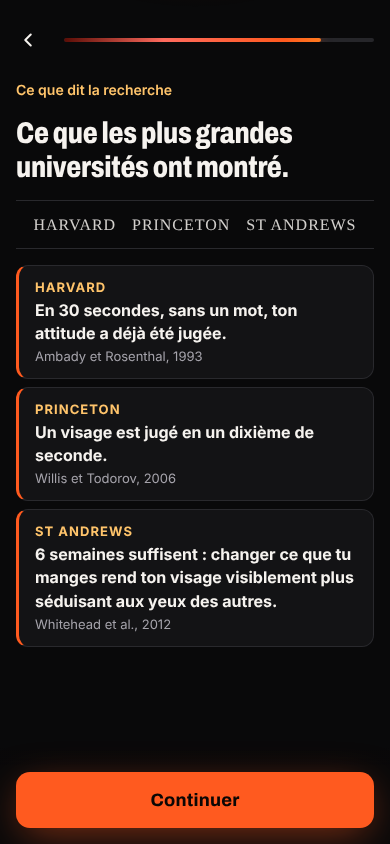
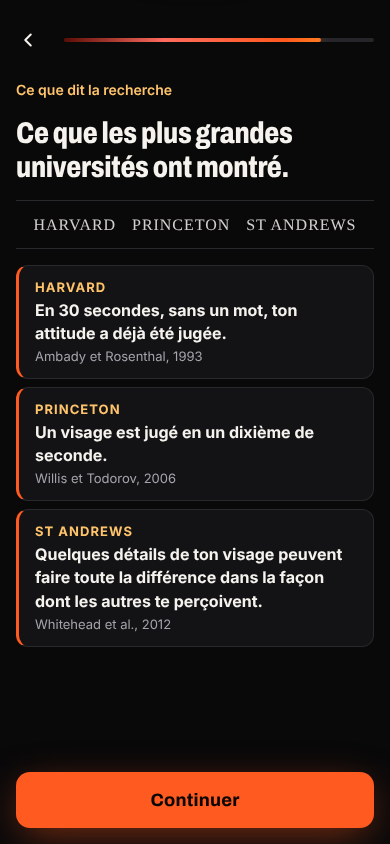
Parcours : un message suit toujours sa question, jamais deux messages d'affilée ; nouvelle phrase St Andrews
Claude-Session: https://claude.ai/code/session_014jgUVVEcSY5o2hZDxT4Svp

Changed region(s): [[0.0923, 0.6469, 0.9231, 0.7393]]

diff --git a/src/shared/questions.js b/src/shared/questions.js
@@ -16,6 +16,8 @@ export const DIFFICULTES = [
   o("progresser", "🔥", "Rien de grave, je veux juste progresser"),
 ];
 
+const OBJECTIFS = [o("assurance", "😎", "Plus d'assurance"), o("relation", "💘", "Des rencontres, une relation"), o("respect", "🏆", "Être pris au sérieux"), o("miroir", "🪞", "Me plaire dans le miroir"), o("photos", "📸", "Être bien sur les photos"), o("travail", "🎯", "Faire bonne impression au travail"), o("meilleur", "👑", "Être la meilleure version de moi")];
+
 // Phrase de l'écran S11, selon la première difficulté choisie
 export const S11_TEXT = {
   confiance: ["Ta confiance va changer de camp.", "On attaque ce qui te freine le plus. Chaque jour, une action simple, que tu vois et que tu sens."],
@@ -37,24 +39,25 @@ const _SCREENS = [
   { id: "accueil", type: "landing" },
   { id: "genre", type: "single", title: "On commence : tu es…", lead: "Ton scan et ton plan sont faits pour toi.",
     options: [o("homme", "", "Un homme"), o("femme", "", "Une femme")], avatars: true },
-  { id: "age", type: "single", title: "Quel âge as-tu ?", lead: "Ça aide à lire ta peau et à régler ton plan.",
-    options: [o("-18", "", "Moins de 18 ans"), o("18-24", "", "18 à 24 ans"), o("25-34", "", "25 à 34 ans"), o("35-44", "", "35 à 44 ans"), o("45-54", "", "45 à 54 ans"), o("55+", "", "55 ans et plus")] },
   { id: "etapes", type: "info", eyebrow: "Comment ça se passe", title: "3 étapes, 3 minutes",
     steps: [["📋", "Tes réponses", "Tes objectifs, tes habitudes, ce qui te gêne."], ["📸", "Deux selfies", "De face et de profil. Facultatif, jamais enregistrés."], ["📈", "Ta note et ton plan", "Où tu en es, jusqu'où tu peux aller, et comment."]],
     cta: "C'est parti" },
+  { id: "age", type: "single", title: "Quel âge as-tu ?", lead: "Ça aide à lire ta peau et à régler ton plan.",
+    options: [o("-18", "", "Moins de 18 ans"), o("18-24", "", "18 à 24 ans"), o("25-34", "", "25 à 34 ans"), o("35-44", "", "35 à 44 ans"), o("45-54", "", "45 à 54 ans"), o("55+", "", "55 ans et plus")] },
   { id: "scan_intro", type: "info", eyebrow: "15 critères passés au crible", title: "On va lire ton visage comme les autres le lisent.", lead: "Les gens se font un avis en quelques secondes. On te montre lequel, critère par critère, et surtout ce qui se travaille.", cta: "Continuer" },
   // l'accord pour l'analyse du visage est donné sur l'écran des selfies (une phrase au-dessus du bouton), décidé par Maël le 27/11/2026
   { id: "selfies", type: "selfies" },
   { id: "photos", type: "photos", skipIf: (a) => !a.consent },
   { id: "analyse", type: "scanning", skipIf: (a) => !a.consent || a.scan === "idle" },
-  { id: "plan_intro", type: "plan_intro" },
+  { id: "plan_intro", type: "plan_intro", skipIf: (a) => a.consent && a.scan !== "idle" }, // après l'analyse, il ferait 2 messages d'affilée
   { id: "difficultes", type: "multi", title: "Qu'est-ce qui te pèse le plus en ce moment ?", lead: "Plusieurs réponses possibles.", options: DIFFICULTES },
-  { id: "objectifs", type: "multi", title: "Qu'est-ce que tu veux obtenir ?", lead: "Plusieurs réponses possibles.",
-    options: [o("assurance", "😎", "Plus d'assurance"), o("relation", "💘", "Des rencontres, une relation"), o("respect", "🏆", "Être pris au sérieux"), o("miroir", "🪞", "Me plaire dans le miroir"), o("photos", "📸", "Être bien sur les photos"), o("travail", "🎯", "Faire bonne impression au travail"), o("meilleur", "👑", "Être la meilleure version de moi")] },
   { id: "message", type: "hero_message", cta: "Je suis prêt" },
+  { id: "objectifs", type: "multi", title: "Qu'est-ce que tu veux obtenir ?", lead: "Plusieurs réponses possibles.",
+    options: OBJECTIFS },
   { id: "mission", type: "ember", eyebrow: "Notre mission", title: "Devenir la version de toi qu'on remarque.",
     lead: "Pas de chirurgie, pas de régime miracle. Des gestes simples, chaque jour, sur ce qui change vraiment ton image. Dehors comme dedans.", cta: "Continuer",
-    echo: (a) => { const d = DIFFICULTES.find((x) => x.id === (a.difficultes || [])[0]); return d && d.id !== "progresser" ? `Tu as dit : « ${d.label} ». C'est exactement là qu'on va aller chercher tes points.` : ""; } },
+    // reprend la question juste avant (objectifs), pour que le message change si la réponse change
+    echo: (a) => { const o = OBJECTIFS.find((x) => x.id === (a.objectifs || [])[0]); return o ? `Tu veux : « ${o.label} ». C'est exactement ce que ton plan va aller chercher.` : ""; } },
   // ----- Visage et corps -----
   { id: "peau_acne", type: "single", title: "Boutons, imperfections, teint irrégulier : ça te concerne ?",
     options: [o("souvent", "", "Oui, tout le temps"), o("parfois", "", "Parfois, sans que ce soit grave"), o("non", "", "Non, ma peau est plutôt nette")] },
@@ -85,13 +88,13 @@ const _SCREENS = [
   { id: "style", type: "single", title: "Tu t'habilles comment, la plupart du temps ?",
     options: [o("sweat", "👕", "Basique", "Jean, t-shirt, sweat"), o("streetwear", "🧢", "Streetwear", "Baskets, oversize, casquette"), o("sport", "🏃", "Sportswear", "Jogging, survêt, baskets"), o("noir", "🖤", "Tout en noir", "Simple et sombre"), o("chic", "👔", "Chic décontracté", "Chemise, chino, chaussures en cuir"), o("aucun", "🤷", "Je ne fais pas attention", "Je mets ce qui traîne")] },
   { id: "avant_apres", type: "contrast" },
-  { id: "projection", type: "projection", skipIf: (a) => !a.consent },
-  { id: "recap", type: "recap", cta: "On continue" },
   // ----- Présence -----
   { id: "ignore", type: "single", title: "Tu t'es déjà senti mis de côté à cause de ton physique ?",
     options: [o("oui", "📵", "Oui, souvent", "Messages sans réponse, on me coupe la parole"), o("parfois", "👻", "Parfois, je me sens transparent"), o("peu", "🤷", "Pas vraiment, mais je sens que je peux mieux faire"), o("jamais", "😎", "Jamais, je veux juste passer un cap")] },
+  { id: "projection", type: "projection", skipIf: (a) => !a.consent },
   { id: "compliments", type: "single", title: "On te fait des compliments sur ton physique ?",
     options: [o("jamais", "🦗", "Presque jamais"), o("famille", "🙃", "Rarement, surtout ma famille"), o("effort", "🙂", "Quand je fais un effort"), o("souvent", "😌", "Assez souvent, j'en veux plus")] },
+  { id: "recap", type: "recap", cta: "On continue" },
   { id: "groupe", type: "single", title: "Quand tu parles en groupe, tu es plutôt…",
     options: [o("assure", "", "À l'aise, on m'écoute"), o("neutre", "", "Je parle, sans vraiment marquer"), o("nerveux", "", "Nerveux, j'ai du mal à garder l'attention")],
     echo: (a) => (["jamais", "famille"].includes(a.compliments) ? "Peu de compliments, ça ne veut pas dire rien à mettre en valeur. Ça veut dire que personne ne l'a encore fait. On va s'en occuper." : "") },
@@ -117,7 +120,7 @@ const _SCREENS = [
     sources: [
       ["En 30 secondes, sans un mot, ton attitude a déjà été jugée.", "Harvard", "Ambady et Rosenthal, 1993"],
       ["Un visage est jugé en un dixième de seconde.", "Princeton", "Willis et Todorov, 2006"],
-      ["6 semaines suffisent : changer ce que tu manges rend ton visage visiblement plus séduisant aux yeux des autres.", "St Andrews", "Whitehead et al., 2012"]],
+      ["Quelques détails de ton visage peuvent faire toute la différence dans la façon dont les autres te perçoivent.", "St Andrews", "Whitehead et al., 2012"]],
     cta: "Continuer" },
   { id: "mal_a_l_aise", type: "single", title: "Tu te sens souvent mal à l'aise quand tu parles aux autres ?",
     options: [o("oui", "", "Oui"), o("non", "", "Non"), o("sais_pas", "", "Je ne sais pas")] },

diff --git a/CLAUDE.md b/CLAUDE.md
@@ -47,7 +47,7 @@ Maël est cuisinier, pas développeur. **Toujours répondre en français**, dans
 
 - Accueil (`/`, décidé par Maël le 25/11/2026) : le moins de friction possible, il ouvre directement le quiz : logo, ligne de confiance, titre, 2 cartes Homme / Femme (un seul geste pour entrer). Plus aucun lien en bas de l'accueil (retirés par Maël le 28/11/2026) : Prix et infos, CGV, Confidentialité, Mentions légales et Cookies sont en bas de la page de paiement (et dans l'espace membre). Les deux sont fabriqués par `node dev/home.mjs` (un test vérifie les prix). Les pubs peuvent mener à `/` ou `/q/` (même écran). Les 2 cartes montrent des visages créés par IA (faits par Maël avec ChatGPT le 26/11/2026, `src/img/carte-homme.webp` et `carte-femme.webp`) ; la mention « illustrations créées par IA » est dans les mentions légales (retirée de l'accueil par Maël le 27/11/2026). On ne les fait jamais passer pour des clients.
 - Pixel Meta (27/11/2026) : `src/shared/consent.js`, identifiant dans `META_PIXEL_ID` (wrangler.toml). Rien n'est chargé avant « Accepter » ; « Refuser » aussi simple ; continuer sans répondre = pas d'accord. Événements : ViewContent (choix Homme/Femme), InitiateCheckout (page de paiement), Purchase + StartTrial (après paiement, vrai montant). Jamais de photo, de note ou de réponse envoyée à Meta.
-- Parcours (27/11/2026) : pas de pronostic ; textes accordés au féminin (`genderize` dans `src/q/app.js`, profil, programmes de `lib/protocols.js` ; un test e2e F07 vérifie le parcours femme jusqu'à l'espace, sans « barbe » ni masculin) ; écran des études (`science`) : seulement de vraies études avec auteurs et année (Harvard, Princeton, St Andrews), noms d'universités en texte (jamais de logos), jamais « validé / approuvé par » (un test le vérifie) ; la phrase « ne sont pas liées à MOGX » a été retirée à la demande de Maël le 27/11/2026 ; page de paiement : le programme par partie, titres des « clés » en clair, détail flouté (jamais envoyé avant le paiement).
+- Parcours (27/11/2026) : jamais deux messages d'affilée sans question, et chaque message suit la question dont il parle (décidé par Maël le 28/11/2026, un test le vérifie) ; pas de pronostic ; textes accordés au féminin (`genderize` dans `src/q/app.js`, profil, programmes de `lib/protocols.js` ; un test e2e F07 vérifie le parcours femme jusqu'à l'espace, sans « barbe » ni masculin) ; écran des études (`science`) : seulement de vraies études avec auteurs et année (Harvard, Princeton, St Andrews), noms d'universités en texte (jamais de logos), jamais « validé / approuvé par » (un test le vérifie) ; la phrase « ne sont pas liées à MOGX » a été retirée à la demande de Maël le 27/11/2026 ; page de paiement : le programme par partie, titres des « clés » en clair, détail flouté (jamais envoyé avant le paiement).
 - Analyse qui échoue avant le paiement (27/11/2026) : aucun message, le parcours continue ; la page de paiement annonce « Ton analyse de visage, à faire dans ton espace » et l'espace propose « Faire mon analyse » (`/q/?analyse=1`, rattachée au quiz du client même depuis un autre téléphone). Question « Je reste calme pendant un désaccord » et phrase « inquiétude / médecin » retirées.
 - Plan = PROTOCOLES (28/11/2026) : `lib/protocols.js`, 10 vrais programmes écrits par nous (mâchoire / double menton, peau, teint et cernes, coupe, barbe ou sourcils, posture, silhouette, style, assurance, photos) + « maquillage » pour les femmes seulement, et « peau » devient « Ta routine skincare » côté femme (28/11/2026 : question « Et le maquillage, pour toi, c'est… » réservée aux femmes ; « Jamais ou presque » retire le maquillage du plan), chacun avec pourquoi, gestes du jour, 4 semaines qui montent et une astuce, version homme / femme. Le plan prend ses 4 protocoles les plus utiles (critères faibles du scan + réponses). L'analyse donne aussi la forme du visage (`scan_extras`, effacée avec les notes) : coupes qui vont / à éviter dans le rapport. Rien de médical, pas de marque, pas de promesse.
 - Notes affichées sur 100 partout (28/11/2026, plus impressionnant). Maillage de l'analyse posé sur la zone de l'ovale (la photo garde le cadre 3:4 de la caméra). Message après la question cheveux qui reprend la réponse (barbe, ligne, texture). Paiement : carte seulement (Apple Pay / Google Pay inclus), pas de Klarna ni autres. Analyse plus franche (scan-v5 : notes écartées, un vrai point faible entre 25 et 40) ; jamais de note basse forcée ou inventée.
